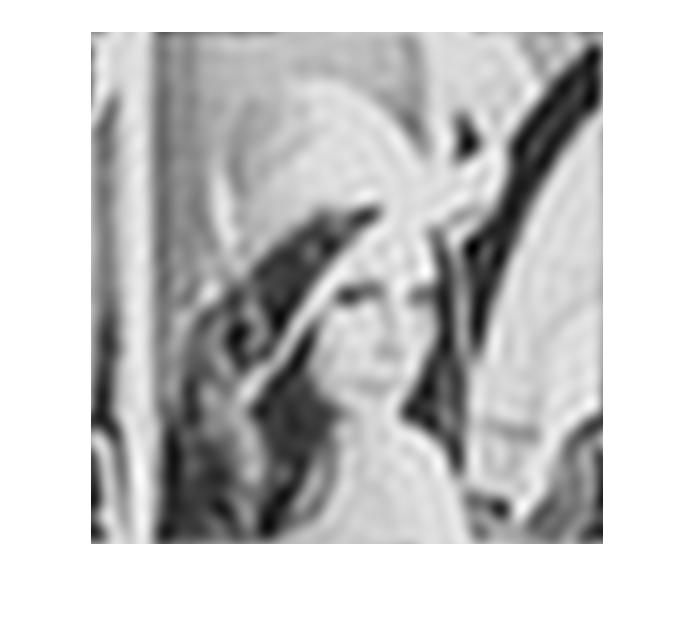
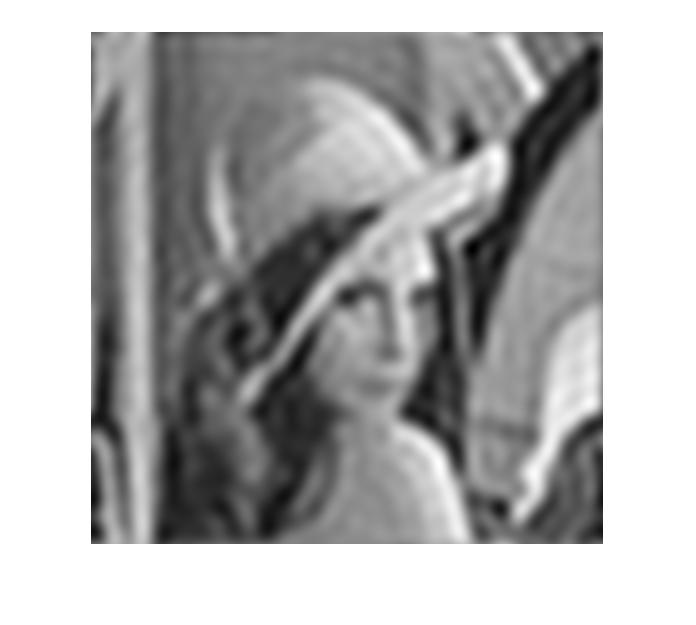
changes for part3

diff --git a/Lab 3/part3.m b/Lab 3/part3.m
@@ -43,10 +43,10 @@ filteredImage = real(ifft2(fftshift(filter)));
 figure
 imshow(filteredImage,[]);
 
-gaussFilt = imgaussfilt(lena,60);
-maxValue = max(gaussFilt(:));
+gaussFilt = fspecial('gaussian',[512 512], 60);
+maxValue = max(max(gaussFilt));
 minValue = min(gaussFilt(:));
-normalization = (gaussFilt - minValue) / ( maxValue - minValue );
+normalization = double(gaussFilt) / maxValue;
 
 filter2 = lena_noise_freq.*normalization;
 filteredImage2 = real(ifft2(fftshift(filter2)));
@@ -55,4 +55,6 @@ figure
 imshow(filteredImage2,[]);
 
 [peaksnr,snr] = psnr(filteredImage2,lena);
+
+
 
